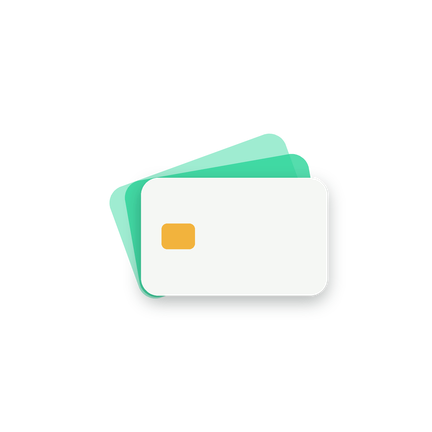
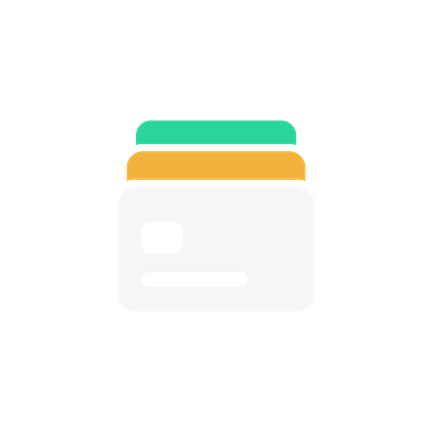
Cambia el icono por la pila de tarjetas plana con chip y línea
El abanico se veía genérico y cargado. El icono nuevo (D104) apila tres
tarjetas de frente que crecen hacia el frente, sin sombras, con los
huecos recortados para que el monocromo de Android se lea igual. Salen
de la misma geometría el icono de las tiendas, las capas de Android, el
splash, el logo sin fondo, la imagen destacada de Google Play y el
icono de la suscripción. LogoTino ahora dibuja el icono completo con su
fondo, porque la tarjeta blanca plana se perdía en los fondos claros.

Changed region(s): [[0.2407, 0.2708, 0.7824, 0.7222], [0.3611, 0.5116, 0.4514, 0.6019]]

diff --git a/src/diseno/LogoTino.tsx b/src/diseno/LogoTino.tsx
@@ -1,23 +1,48 @@
-import Svg, { Rect } from 'react-native-svg';
+import Svg, { G, Rect } from 'react-native-svg';
 import { useTema } from './useTema';
 
-// El ícono de Tino sin su fondo verde (decisión D94; geometría de herramientas/iconos/generar_iconos.py):
-// tres tarjetas en abanico, en el mismo estilo que el ícono de las tiendas. Al frente, blanca y con su
-// chip, la tarjeta que Tino elige; detrás, las demás en jade vivo. Se lee en claro y en oscuro.
-const TARJETA = { x: 138, y: 212, width: 236, height: 149, rx: 22 };
-const PIVOTE = '168 352';
+// El ícono de Tino tal como se ve en el teléfono (decisión D104; geometría de
+// herramientas/iconos/generar_iconos.py): tres tarjetas apiladas de frente sobre el jade, atrás la
+// jade, en medio la dorada y al frente la blanca con su chip y la línea del número. Lleva su fondo
+// porque la tarjeta blanca, plana y sin sombra, se perdería sobre los fondos claros. Los huecos se
+// pintan del color del fondo: react-native-svg no dibuja bien las máscaras en todos los Android.
+const ATRAS = { x: 126, y: 102, width: 260, height: 164, rx: 24 };
+const MEDIO = { x: 111, y: 152, width: 290, height: 183, rx: 26 };
+const FRENTE = { x: 96, y: 210, width: 320, height: 202, rx: 28 };
+const HUECOS_FRENTE = [
+  { x: 136, y: 268, width: 64, height: 48, rx: 12 },
+  { x: 136, y: 350, width: 170, height: 20, rx: 10 },
+];
+const SEPARACION = 12;
+// Igual que AUMENTO_TIENDAS y CENTRO del generador.
+const MOVER = 'translate(256 256) scale(1.2) translate(-256 -257)';
+
+type Caja = { x: number; y: number; width: number; height: number; rx: number };
+const agrandar = (c: Caja): Caja => ({
+  x: c.x - SEPARACION,
+  y: c.y - SEPARACION,
+  width: c.width + 2 * SEPARACION,
+  height: c.height + 2 * SEPARACION,
+  rx: c.rx + SEPARACION,
+});
 
 export function LogoTino({ tamano = 64 }: { tamano?: number }) {
   const tema = useTema();
+  const fondo = tema.color.logoFondo;
   return (
-    <Svg width={tamano} height={tamano} viewBox="83 110 300 300" accessibilityElementsHidden importantForAccessibility="no-hide-descendants">
-      <Rect {...TARJETA} fill={tema.color.logoAtras} fillOpacity={0.45} transform={`rotate(-20 ${PIVOTE})`} />
-      <Rect {...TARJETA} fill={tema.color.logoAtras} fillOpacity={0.8} transform={`rotate(-10 ${PIVOTE})`} />
-      {/* Sombra en dos capas: los filtros de react-native-svg no se dibujan bien en Android. */}
-      <Rect {...TARJETA} y={TARJETA.y + 10} fill={tema.color.velo} fillOpacity={0.08} />
-      <Rect {...TARJETA} y={TARJETA.y + 5} fill={tema.color.velo} fillOpacity={0.12} />
-      <Rect {...TARJETA} fill={tema.color.fondoLogo} />
-      <Rect x={164} y={270} width={42} height={32} rx={7} fill={tema.color.logoChip} />
+    <Svg width={tamano} height={tamano} viewBox="0 0 512 512" accessibilityElementsHidden importantForAccessibility="no-hide-descendants">
+      {/* Esquinas de los iconos de iOS: 22.5% del lado. */}
+      <Rect width={512} height={512} rx={115} fill={fondo} />
+      <G transform={MOVER}>
+        <Rect {...ATRAS} fill={tema.color.logoAtras} />
+        <Rect {...agrandar(MEDIO)} fill={fondo} />
+        <Rect {...MEDIO} fill={tema.color.logoMedio} />
+        <Rect {...agrandar(FRENTE)} fill={fondo} />
+        <Rect {...FRENTE} fill={tema.color.logoFrente} />
+        {HUECOS_FRENTE.map((h, i) => (
+          <Rect key={i} {...h} fill={fondo} />
+        ))}
+      </G>
     </Svg>
   );
 }

diff --git a/herramientas/iconos/generar_iconos.py b/herramientas/iconos/generar_iconos.py
@@ -1,14 +1,16 @@
-# Genera todos los iconos de Tino desde una sola geometría (decisión D94): tres tarjetas en
-# abanico, en proporción real (85.6 × 54 mm); al frente la que Tino elige, con su chip. Un solo
-# estilo en todas partes: la del frente blanca con sombra, que se lee sobre el jade, sobre fondos
-# claros y sobre oscuros.
+# Genera todos los iconos de Tino desde una sola geometría (decisión D104): tres tarjetas apiladas
+# de frente, en proporción real (85.6 × 54 mm), que crecen hacia el frente como vistas desde
+# arriba. Atrás la jade, en medio la dorada y al frente la blanca, con su chip y la línea del
+# número recortados. Plano, sin sombras: entre las piezas hay un hueco recortado de verdad, así
+# que la figura se lee igual en color, en gris y en una sola tinta.
 #
 # Uso, desde la raíz del repositorio: python herramientas/iconos/generar_iconos.py (requiere Pillow).
 # Escribe en assets/iconos/: fuente-icono.svg, tino-tarjetas.svg, tino-tarjetas-monocromo.svg,
 # tino-tarjetas.png, app-store-1024.png, play-store-512.png, android-fondo.png,
-# android-primer-plano.png, android-monocromo.png y splash.png.
+# android-primer-plano.png, android-monocromo.png y splash.png. La página de Tino en
+# polancolabs.com usa una copia de fuente-icono.svg (public/apps/tino/icono.svg).
 import math
-from PIL import Image, ImageDraw, ImageFilter
+from PIL import Image, ImageDraw
 
 DESTINO = 'assets/iconos'
 
@@ -17,50 +19,37 @@ JADE_ARRIBA, JADE_ABAJO = '#12916A', '#0B6B4E'  # degradado del fondo
 JADE_VIVO = '#2BD49A'  # jadeVivo
 ORO = '#F2B33D'        # oro
 PAPEL = '#F5F7F4'      # papel
-TINTA = '#0D1B16'      # tinta
 
-# Geometría en un lienzo de 512: la tarjeta, su chip y el giro de las dos de atrás alrededor de
-# la esquina inferior izquierda, como cartas en la mano.
-TARJETA = (138, 212, 236, 149)  # x, y, ancho, alto (236 / 149 ≈ 85.6 / 54)
-RADIO = 22
-CHIP = (164, 270, 42, 32, 7)    # x, y, ancho, alto, radio
-PIVOTE = (168, 352)
-ATRAS = [(-20, 0.45), (-10, 0.8)]  # grados y opacidad, de la más lejana a la más cercana
-# En los iconos con fondo (App Store, Google Play), el abanico se agranda sobre la geometría de 512
-# hasta ocupar cerca del 80% del ancho, con un 10% de margen a cada lado: las tiendas muestran el
-# cuadro completo, solo con las esquinas suavizadas.
-AUMENTO_TIENDAS = 1.42
-
-
-def esquinas(angulo):
-    x, y, w, h = TARJETA
-    a = math.radians(angulo)
-    px, py = PIVOTE
-    for cx, cy in ((x, y), (x + w, y), (x, y + h), (x + w, y + h)):
-        dx, dy = cx - px, cy - py
-        yield px + dx * math.cos(a) - dy * math.sin(a), py + dx * math.sin(a) + dy * math.cos(a)
+# Geometría en un lienzo de 512: x, y, ancho, alto, radio. LogoTino repite estos números.
+ATRAS = (126, 102, 260, 164, 24)
+MEDIO = (111, 152, 290, 183, 26)
+FRENTE = (96, 210, 320, 202, 28)
+HUECOS_FRENTE = [(136, 268, 64, 48, 12), (136, 350, 170, 20, 10)]  # chip y línea del número
+SEPARACION = 12  # hueco entre una tarjeta y la de delante
+CAPAS = [(ATRAS, JADE_VIVO), (MEDIO, ORO), (FRENTE, PAPEL)]  # de atrás hacia adelante
+CENTRO = (256, (ATRAS[1] + FRENTE[1] + FRENTE[3]) / 2)
+# En los iconos con fondo (App Store, Google Play) la pila se agranda hasta ocupar el 75% del
+# ancho, con un 12.5% de margen a cada lado: las tiendas muestran el cuadro completo, solo con las
+# esquinas suavizadas.
+AUMENTO_TIENDAS = 1.2
 
 
-# Caja del abanico, para centrarlo en el lienzo.
-_puntos = [p for angulo in [0] + [a for a, _ in ATRAS] for p in esquinas(angulo)]
-CAJA = (min(p[0] for p in _puntos), min(p[1] for p in _puntos), max(p[0] for p in _puntos), max(p[1] for p in _puntos))
-CENTRO = ((CAJA[0] + CAJA[2]) / 2, (CAJA[1] + CAJA[3]) / 2)
-
-
-def contorno(angulo, pasos=24):
-    """Puntos del borde de una tarjeta, con sus esquinas redondeadas, girada `angulo` grados."""
-    x, y, w, h = TARJETA
-    a = math.radians(angulo)
-    px, py = PIVOTE
-    for cx, cy, desde in ((x + w - RADIO, y + RADIO, -90), (x + w - RADIO, y + h - RADIO, 0), (x + RADIO, y + h - RADIO, 90), (x + RADIO, y + RADIO, 180)):
+def contorno(r, pasos=24):
+    """Puntos del borde de un rectángulo redondeado."""
+    x, y, w, h, rr = r
+    for cx, cy, desde in ((x + w - rr, y + rr, -90), (x + w - rr, y + h - rr, 0), (x + rr, y + h - rr, 90), (x + rr, y + rr, 180)):
         for i in range(pasos + 1):
             t = math.radians(desde + 90 * i / pasos)
-            dx, dy = cx + RADIO * math.cos(t) - px, cy + RADIO * math.sin(t) - py
-            yield px + dx * math.cos(a) - dy * math.sin(a), py + dx * math.sin(a) + dy * math.cos(a)
+            yield cx + rr * math.cos(t), cy + rr * math.sin(t)
 
 
-# Distancia del centro al punto más lejano de las tarjetas: lo que tiene que caber en un círculo.
-RADIO_ABANICO = max(math.hypot(px - CENTRO[0], py - CENTRO[1]) for angulo in [0] + [a for a, _ in ATRAS] for px, py in contorno(angulo))
+# Distancia del centro al punto más lejano de la pila: lo que tiene que caber en un círculo.
+RADIO_PILA = max(math.hypot(px - CENTRO[0], py - CENTRO[1]) for r, _ in CAPAS for px, py in contorno(r))
+
+
+def agrandar(r, d):
+    x, y, w, h, rr = r
+    return (x - d, y - d, w + 2 * d, h + 2 * d, rr + d)
 
 
 def rgba(h, a=1.0):
@@ -69,41 +58,44 @@ def rgba(h, a=1.0):
 
 # ---------- SVG ----------
 
-def svg_tarjetas(frente, atras, chip, sombra, aumento=1.0):
-    """Las tres tarjetas centradas en el lienzo de 512, agrandadas `aumento` veces."""
-    x, y, w, h = TARJETA
-    cx, cy, cw, ch, cr = CHIP
-    mover = f'translate(256 256) scale({aumento}) translate({-CENTRO[0]:.1f} {-CENTRO[1]:.1f})'
-    filas = [f'<g transform="{mover}">']
-    for angulo, opacidad in ATRAS:
-        filas.append(f'  <rect x="{x}" y="{y}" width="{w}" height="{h}" rx="{RADIO}" fill="{atras}" fill-opacity="{opacidad}" transform="rotate({angulo} {PIVOTE[0]} {PIVOTE[1]})"/>')
-    filas.append(f'  <g{" filter=\"url(#sombra)\"" if sombra else ""}>')
-    filas.append(f'    <rect x="{x}" y="{y}" width="{w}" height="{h}" rx="{RADIO}" fill="{frente}"/>')
-    if chip:
-        filas.append(f'    <rect x="{cx}" y="{cy}" width="{cw}" height="{ch}" rx="{cr}" fill="{chip}"/>')
-    filas.append('  </g>')
-    filas.append('</g>')
-    return '\n'.join('  ' + f for f in filas)
+def atributos(r):
+    x, y, w, h, rr = r
+    return f'x="{x}" y="{y}" width="{w}" height="{h}" rx="{rr}"'
+
+
+def svg_pila(colores, aumento=1.0):
+    """Máscaras y piezas de la pila centrada en el lienzo de 512, agrandada `aumento` veces."""
+    caja = 'maskUnits="userSpaceOnUse" x="0" y="0" width="512" height="512"'
+    mascaras, piezas = [], []
+    for i, (r, _) in enumerate(CAPAS):
+        quitar = [agrandar(d, SEPARACION) for d, _ in CAPAS[i + 1:]] + (HUECOS_FRENTE if r is FRENTE else [])
+        nombre = f'hueco{i}'
+        mascaras.append(f'    <mask id="{nombre}" {caja}>\n      <rect width="512" height="512" fill="#fff"/>\n'
+                        + ''.join(f'      <rect {atributos(q)} fill="#000"/>\n' for q in quitar) + '    </mask>\n')
+        piezas.append(f'    <rect {atributos(r)} fill="{colores[i]}" mask="url(#{nombre})"/>')
+    mover = f'translate(256 256) scale({aumento}) translate({-CENTRO[0]} {-CENTRO[1]})'
+    return ''.join(mascaras), f'  <g transform="{mover}">\n' + '\n'.join(piezas) + '\n  </g>'
 
 
 def escribir_svg():
-    sombra = (f'    <filter id="sombra" x="-30%" y="-30%" width="160%" height="170%">\n'
-              f'      <feDropShadow dx="0" dy="8" stdDeviation="10" flood-color="{TINTA}" flood-opacity="0.32"/>\n'
-              f'    </filter>\n')
     fondo = (f'    <linearGradient id="fondo" x1="0" y1="0" x2="0" y2="1">\n'
              f'      <stop offset="0" stop-color="{JADE_ARRIBA}"/>\n      <stop offset="1" stop-color="{JADE_ABAJO}"/>\n'
              f'    </linearGradient>\n')
     cabeza = '<svg xmlns="http://www.w3.org/2000/svg" viewBox="0 0 512 512" width="512" height="512">\n'
+    color = [c for _, c in CAPAS]
+
+    mascaras, pila = svg_pila(color, AUMENTO_TIENDAS)
     with open(f'{DESTINO}/fuente-icono.svg', 'w', encoding='utf-8') as f:
-        f.write(cabeza + '  <!-- Icono de Tino (D94). Lo genera herramientas/iconos/generar_iconos.py: no editar a mano. -->\n'
-                f'  <defs>\n{fondo}{sombra}  </defs>\n  <rect width="512" height="512" fill="url(#fondo)"/>\n'
-                + svg_tarjetas(PAPEL, JADE_VIVO, ORO, True, AUMENTO_TIENDAS) + '\n</svg>\n')
+        f.write(cabeza + '  <!-- Icono de Tino (D104). Lo genera herramientas/iconos/generar_iconos.py: no editar a mano. -->\n'
+                f'  <defs>\n{fondo}{mascaras}  </defs>\n  <rect width="512" height="512" fill="url(#fondo)"/>\n' + pila + '\n</svg>\n')
+    mascaras, pila = svg_pila(color)
     with open(f'{DESTINO}/tino-tarjetas.svg', 'w', encoding='utf-8') as f:
-        f.write(cabeza + '  <!-- Tarjetas de Tino sin fondo (D94). Generado: no editar a mano. -->\n'
-                f'  <defs>\n{sombra}  </defs>\n' + svg_tarjetas(PAPEL, JADE_VIVO, ORO, True) + '\n</svg>\n')
+        f.write(cabeza + '  <!-- Tarjetas de Tino sin fondo (D104), para fondos oscuros o de color. Generado: no editar a mano. -->\n'
+                f'  <defs>\n{mascaras}  </defs>\n' + pila + '\n</svg>\n')
+    mascaras, pila = svg_pila(['#FFFFFF'] * 3)
     with open(f'{DESTINO}/tino-tarjetas-monocromo.svg', 'w', encoding='utf-8') as f:
-        f.write(cabeza + '  <!-- Tarjetas de Tino en una sola tinta (D94). Generado: no editar a mano. -->\n'
-                + svg_tarjetas('#FFFFFF', '#FFFFFF', None, False) + '\n</svg>\n')
+        f.write(cabeza + '  <!-- Tarjetas de Tino en una sola tinta (D104). Generado: no editar a mano. -->\n'
+                f'  <defs>\n{mascaras}  </defs>\n' + pila + '\n</svg>\n')
 
 
 # ---------- PNG ----------
@@ -111,35 +103,26 @@ def escribir_svg():
 S = 4  # sobremuestreo para bordes suaves
 
 
-def tarjetas(lado, escala, frente, atras, chip, sombra, centro=None):
-    """Capa RGBA de lado×lado con el abanico; `escala` es el ancho del icono de 512 en píxeles."""
+def pila(lado, escala, colores):
+    """Capa RGBA de lado×lado con la pila al centro; `escala` es el ancho del icono de 512 en píxeles."""
     N = lado * S
     k = escala * S / 512
-    ox = (centro[0] if centro else lado / 2) * S - CENTRO[0] * k
-    oy = (centro[1] if centro else lado / 2) * S - CENTRO[1] * k
-    x, y, w, h = TARJETA
+    ox, oy = N / 2 - CENTRO[0] * k, N / 2 - CENTRO[1] * k
 
-    def una(color, opacidad=1.0):
-        capa = Image.new('RGBA', (N, N), (0, 0, 0, 0))
-        ImageDraw.Draw(capa).rounded_rectangle([ox + x * k, oy + y * k, ox + (x + w) * k, oy + (y + h) * k], radius=RADIO * k, fill=rgba(color, opacidad))
-        return capa
+    def caja(r):
+        x, y, w, h, rr = r
+        return [ox + x * k, oy + y * k, ox + (x + w) * k, oy + (y + h) * k], rr * k
 
-    pivote = (ox + PIVOTE[0] * k, oy + PIVOTE[1] * k)
     final = Image.new('RGBA', (N, N), (0, 0, 0, 0))
-    for angulo, opacidad in ATRAS:
-        # rotate() de PIL gira en sentido contrario al SVG.
-        final = Image.alpha_composite(final, una(atras, opacidad).rotate(-angulo, center=pivote, resample=Image.BICUBIC))
-    frente_capa = una(frente)
-    if chip:
-        cx, cy, cw, ch, cr = CHIP
-        ImageDraw.Draw(frente_capa).rounded_rectangle([ox + cx * k, oy + cy * k, ox + (cx + cw) * k, oy + (cy + ch) * k], radius=cr * k, fill=rgba(chip))
-    if sombra:
-        alfa = frente_capa.split()[3].point(lambda a: int(a * 0.32))
-        sombra_capa = Image.new('RGBA', (N, N), rgba(TINTA, 0))
-        sombra_capa.putalpha(alfa)
-        sombra_capa = sombra_capa.transform((N, N), Image.AFFINE, (1, 0, 0, 0, 1, -8 * k)).filter(ImageFilter.GaussianBlur(10 * k))
-        final = Image.alpha_composite(final, sombra_capa)
-    final = Image.alpha_composite(final, frente_capa)
+    for i, (r, _) in enumerate(CAPAS):
+        alfa = Image.new('L', (N, N), 0)
+        d = ImageDraw.Draw(alfa)
+        d.rounded_rectangle(*caja(r), fill=255)
+        for q in [agrandar(t, SEPARACION) for t, _ in CAPAS[i + 1:]] + (HUECOS_FRENTE if r is FRENTE else []):
+            d.rounded_rectangle(*caja(q), fill=0)
+        capa = Image.new('RGBA', (N, N), rgba(colores[i]))
+        capa.putalpha(alfa)
+        final = Image.alpha_composite(final, capa)
     return final.resize((lado, lado), Image.LANCZOS)
 
 
@@ -153,26 +136,30 @@ def degradado(lado):
     return fondo
 
 
+COLORES = [c for _, c in CAPAS]
+BLANCO = ['#FFFFFF'] * 3
+
+
 def icono_con_fondo(lado):
-    return Image.alpha_composite(degradado(lado), tarjetas(lado, lado * AUMENTO_TIENDAS, PAPEL, JADE_VIVO, ORO, True)).convert('RGB')
+    return Image.alpha_composite(degradado(lado), pila(lado, lado * AUMENTO_TIENDAS, COLORES)).convert('RGB')
 
 
 def escribir_png():
     icono_con_fondo(1024).save(f'{DESTINO}/app-store-1024.png', optimize=True)  # sin transparencia ni esquinas
     icono_con_fondo(512).save(f'{DESTINO}/play-store-512.png', optimize=True)
-    tarjetas(1024, 1024, PAPEL, JADE_VIVO, ORO, True).save(f'{DESTINO}/tino-tarjetas.png', optimize=True)
+    pila(1024, 1024 * 512 / (FRENTE[2] + 32), COLORES).save(f'{DESTINO}/tino-tarjetas.png', optimize=True)
 
     # Icono adaptativo de Android: lienzo de 108 dp (432 px a 4x); cualquier forma del launcher
-    # deja ver al menos el círculo de 66 dp del centro. El abanico se agranda hasta que su punto más
+    # deja ver al menos el círculo de 66 dp del centro. La pila se agranda hasta que su punto más
     # lejano quede a 32.5 dp del centro: llena el icono sin que ninguna forma lo recorte.
-    visible = 32.5 * 4 / RADIO_ABANICO * 512
+    visible = 32.5 * 4 / RADIO_PILA * 512
     degradado(432).save(f'{DESTINO}/android-fondo.png', optimize=True)
-    tarjetas(432, visible, PAPEL, JADE_VIVO, ORO, True).save(f'{DESTINO}/android-primer-plano.png', optimize=True)
-    tarjetas(432, visible, '#FFFFFF', '#FFFFFF', None, False).save(f'{DESTINO}/android-monocromo.png', optimize=True)
+    pila(432, visible, COLORES).save(f'{DESTINO}/android-primer-plano.png', optimize=True)
+    pila(432, visible, BLANCO).save(f'{DESTINO}/android-monocromo.png', optimize=True)
 
-    # Splash (Android 12+): recorta en un círculo de 2/3 del lienzo; el abanico tiene que caber con aire.
-    escala = 1024 * (1 / 3) * 0.9 / RADIO_ABANICO * 512
-    tarjetas(1024, escala, PAPEL, JADE_VIVO, ORO, True).save(f'{DESTINO}/splash.png', optimize=True)
+    # Splash (Android 12+): recorta en un círculo de 2/3 del lienzo; la pila tiene que caber con aire.
+    escala = 1024 * (1 / 3) * 0.9 / RADIO_PILA * 512
+    pila(1024, escala, COLORES).save(f'{DESTINO}/splash.png', optimize=True)
 
 
 if __name__ == '__main__':

diff --git a/herramientas/iconos/generar_imagen_destacada.py b/herramientas/iconos/generar_imagen_destacada.py
@@ -1,5 +1,5 @@
 # Genera la imagen destacada de Google Play (1024 × 500): el jade del icono, el nombre y el
-# eslogan a la izquierda, y las tres tarjetas del icono (D94) a la derecha.
+# eslogan a la izquierda, y la pila de tarjetas del icono (D104) a la derecha.
 #
 # Uso, desde la raíz del repositorio: python herramientas/iconos/generar_imagen_destacada.py
 # (requiere Pillow y node_modules instalado, de donde salen las fuentes de la app).
@@ -10,7 +10,7 @@ import sys
 from PIL import Image, ImageDraw, ImageFont
 
 sys.path.insert(0, os.path.dirname(__file__))
-from generar_iconos import JADE_ABAJO, JADE_ARRIBA, JADE_VIVO, ORO, PAPEL, icono_con_fondo, rgba, tarjetas
+from generar_iconos import COLORES, JADE_ABAJO, JADE_ARRIBA, PAPEL, icono_con_fondo, pila, rgba
 
 ANCHO, ALTO = 1024, 500
 DESTINO = 'assets/tienda/google-play-destacada.png'
@@ -36,8 +36,8 @@ def fondo():
 def main():
     imagen = fondo()
     # Las tarjetas en un cuadro de 500 a la derecha, del tamaño del icono de tienda en ese cuadro.
-    abanico = tarjetas(ALTO, ALTO * 1.3, PAPEL, JADE_VIVO, ORO, True)
-    imagen.alpha_composite(abanico, (ANCHO - ALTO - 40, 0))
+    tarjetas = pila(ALTO, ALTO * 1.1, COLORES)
+    imagen.alpha_composite(tarjetas, (ANCHO - ALTO - 40, 0))
 
     d = ImageDraw.Draw(imagen)
     x = 84

diff --git a/docs/progreso.md b/docs/progreso.md
@@ -186,6 +186,9 @@ Criterios de la especificación:
 - [ ] Verificar los emisores que siguen "por verificar": Banfondesa, Adopem y Citibank en el grupo 1 (solo débito o banca corporativa el 2026-10-01), y los del grupo 2. Alaver (3 tarjetas) y Motor Crédito (2) quedaron confirmados
 - [ ] Búsqueda de marcas de "Tino" (1.1 de la especificación)
 - [ ] Variantes oscura y tintada del icono de iOS
+- [ ] Icono nuevo (D104) en Google Play Console: subir otra vez el icono (`assets/iconos/play-store-512.png`), la imagen destacada (`assets/tienda/google-play-destacada.png`) y el icono de la suscripción `tino_pro` (`assets/tienda/tino-pro-512.png`)
+- [ ] Ver el icono nuevo (D104) en el emulador tras una compilación nativa: icono adaptativo en varias formas, monocromo de Android 13, splash y el logo de Ajustes en claro y oscuro
+- [ ] Publicar `polancolabs-web` con el icono nuevo de Tino
 - [x] Cuentas de Apple Developer y Google Play Console
 - [x] Proyecto en Expo (EAS) vinculado (2026-10-01): proyecto `tino` de la cuenta personal `andersonpolanco`, `projectId` y `owner` en `app.config.ts`; cada perfil de `eas.json` usa su ambiente de variables de EAS. En `preview` y `production` ya están `EXPO_PUBLIC_POSTHOG_KEY`, `EXPO_PUBLIC_SENTRY_DSN`, las tres direcciones legales, `SENTRY_ORG` y `SENTRY_PROJECT`
 - [x] Compilar Android en local con `herramientas/compilar/build-android.cmd` (WSL Ubuntu, igual que Tanty, D97): compila lo que está en GitHub, así que antes hay que hacer push. Necesita `EXPO_TOKEN` en `.env.local` (copiado del de Tanty, misma cuenta). Primera AAB de producción el 2026-10-01 (`Tino-production-v1.aab`), revisada: lleva las claves de producción de RevenueCat, PostHog y Sentry y ninguna clave de la Test Store
@@ -374,4 +377,5 @@ Criterios de la especificación:
 | D101 | 2026-10-01 | "Ya pagué" pregunta cuánto se pagó del estado: "El balance al corte" o "Menos" (el mínimo u otro monto). Se guarda solo si fue menos (`pagoParcial` en la tarjeta), nunca el monto. Con "Menos", el pago queda resuelto (sin pregunta de vencido ni mora), pero hasta el siguiente corte el detalle y "Tengo una compra" avisan que las compras nuevas podrían generar intereses hasta saldarlo; la fila dice "Pagaste una parte". El campo es opcional y la tarjeta se guarda como JSON, así que no hay migración; el respaldo lo acepta y "Ver mis datos" lo muestra | Mucha gente paga más del mínimo y menos del balance al corte: evita la mora, pero en casi todos los bancos pierde los días sin intereses. Sin distinguirlo, Tino prometía días sin intereses que no eran. Es la base para la calculadora de intereses de la 1.1 |
 | D102 | 2026-10-02 | Con una sola tarjeta, el título pasa de "¿Es buen momento?" a "¿Conviene usar tu tarjeta hoy?", y la píldora del semáforo lo contesta: "Sí, úsala ahora" (verde), "Sí, puedes usarla" (amarillo) y "Mejor espera" (rojo), también para el lector de pantalla. Con dos o más tarjetas siguen "Buen momento", "Momento normal" y "Espera" | "¿Es buen momento?" no decía para qué, y "Momento normal" no decía si convenía usarla. Una pregunta con la acción y una respuesta de sí o no se entienden de un vistazo |
 | D103 | 2026-10-02 | Con dos o más tarjetas y todas por cortar (semáforo rojo), Inicio no destaca una tarjeta: el título es "Mejor espera unos días" y la tarjeta de hoy pasa a ser el consejo "Espera al jueves 8: con Tarjeta X tendrás 51 días para pagar, en vez de 22 si compras hoy" (abre el detalle de esa tarjeta para ese día). Debajo, "Si tienes que comprar hoy" lista todas en el orden del enfoque. El día es el siguiente a un corte, el primero en que la mejor tarjeta (con el mismo enfoque) da al menos 10 días más. El widget de Android muestra lo mismo ("Mejor espera", el día y la tarjeta; versión 5 del resumen). Vale en todos los enfoques. Si al menos una no está en rojo, todo sigue igual. El motor no cambia (`src/inicio/esperar.ts`) | Con todas por cortar, destacar una bajo "Hoy te conviene usar" engañaba. No se deja sin recomendación porque a veces hay que comprar hoy, y la lista dice cuál es la menos mala. Esperar da la misma recompensa (no depende del día) y unos 30 días más para pagar, así que nunca es peor, también con Puntos o Cashback |
+| D104 | 2026-10-02 | Icono nuevo, reemplaza al de D94: tres tarjetas apiladas de frente, en proporción real, que crecen hacia el frente como vistas desde arriba (atrás 260 de ancho, en medio 290, al frente 320 en el lienzo de 512). Atrás la jade vivo, en medio la dorada y al frente la blanca con el chip y la línea del número recortados. Plano, sin sombras ni degradados en la figura, con 12 unidades de hueco recortado entre piezas, así que el monocromo de Android se lee igual. En tiendas ocupa el 75% del ancho. `LogoTino` dibuja el icono completo con su fondo jade (roles nuevos `logoFondo`, `logoMedio` y `logoFrente`; sale `logoChip`), porque la tarjeta blanca plana se perdería en los fondos claros, y pinta los huecos del color del fondo en vez de usar máscaras. La imagen destacada de Google Play, el icono de la suscripción y `polancolabs-web` usan la misma figura | El abanico se veía genérico y con detalle de más. Se eligió entre cinco rondas de variantes (billeteras, estilo de las grandes marcas, pilas de tarjetas) revisadas a 64, 40 y 24 px, en la máscara redonda, en gris y en monocromo; la pila en perspectiva tiene silueta propia (un trapecio) y se separa del icono de Apple Wallet, y el chip y la línea evitan que la tarjeta del frente se lea como un rectángulo vacío |
 | D11 | 2026-09-25 | (Sin uso en pantalla desde D30.) La barra de orden desempata manteniendo el orden recomendado | La sección 5.4 no define el desempate de la barra; así el resultado es estable y predecible |

diff --git a/docs/documentacion-tecnica.md b/docs/documentacion-tecnica.md
@@ -325,14 +325,14 @@ Las [maquetas de la pantalla de inicio](https://claude.ai/artifact/D4pi5Mkn44k2A
 | `assets/iconos/app-store-1024.png` | Icono de App Store y de iOS | 1024×1024, sin transparencia, sin esquinas redondeadas |
 | `assets/iconos/play-store-512.png` | Ficha de Google Play | 512×512 |
 | `assets/iconos/android-fondo.png` | Icono adaptativo: capa de fondo | 432×432 (108 dp a 4x) |
-| `assets/iconos/android-primer-plano.png` | Icono adaptativo: las tarjetas en abanico, dentro de la zona segura de 66 dp | 432×432 con transparencia |
+| `assets/iconos/android-primer-plano.png` | Icono adaptativo: la pila de tarjetas, dentro de la zona segura de 66 dp | 432×432 con transparencia |
 | `assets/iconos/android-monocromo.png` | Iconos temáticos de Android 13 en adelante | 432×432 con transparencia |
 | `assets/iconos/fuente-icono.svg` | Icono con su fondo, en vectores | SVG |
-| `assets/iconos/tino-tarjetas.svg` y `tino-tarjetas.png` | Logo sin fondo, con el mismo estilo del icono (tarjeta del frente blanca con sombra); se lee en fondos claros y oscuros | SVG y 1024×1024 con transparencia |
+| `assets/iconos/tino-tarjetas.svg` y `tino-tarjetas.png` | Logo sin fondo, para fondos oscuros o de color (la tarjeta del frente es blanca y plana); en fondos claros se usa el icono con su fondo | SVG y 1024×1024 con transparencia |
 | `assets/iconos/tino-tarjetas-monocromo.svg` | Logo en una sola tinta | SVG |
 | `assets/iconos/splash.png` | Pantalla de arranque: las tarjetas sobre el jade, dentro del círculo de Android 12+ | 1024×1024 con transparencia |
 
-Todos salen de una sola geometría, tres tarjetas en abanico en proporción real (decisión D94 de `docs/progreso.md`), con `python herramientas/iconos/generar_iconos.py`; no se editan a mano. `LogoTino` dibuja la misma figura con los colores del tema.
+Todos salen de una sola geometría, tres tarjetas apiladas de frente en proporción real, planas y con los huecos recortados (decisión D104 de `docs/progreso.md`), con `python herramientas/iconos/generar_iconos.py`; no se editan a mano. `LogoTino` dibuja el icono completo, con su fondo, a partir de los roles `logoFondo`, `logoAtras`, `logoMedio` y `logoFrente`. La página de Tino en polancolabs.com usa una copia de `fuente-icono.svg`.
 
 En `app.json`: `icon` apunta al PNG de 1024; `android.adaptiveIcon` usa `foregroundImage`, `backgroundImage` y `monochromeImage` con los archivos de Android. Las variantes oscura y tintada de iOS se agregan antes del lanzamiento a partir del SVG fuente.
 
